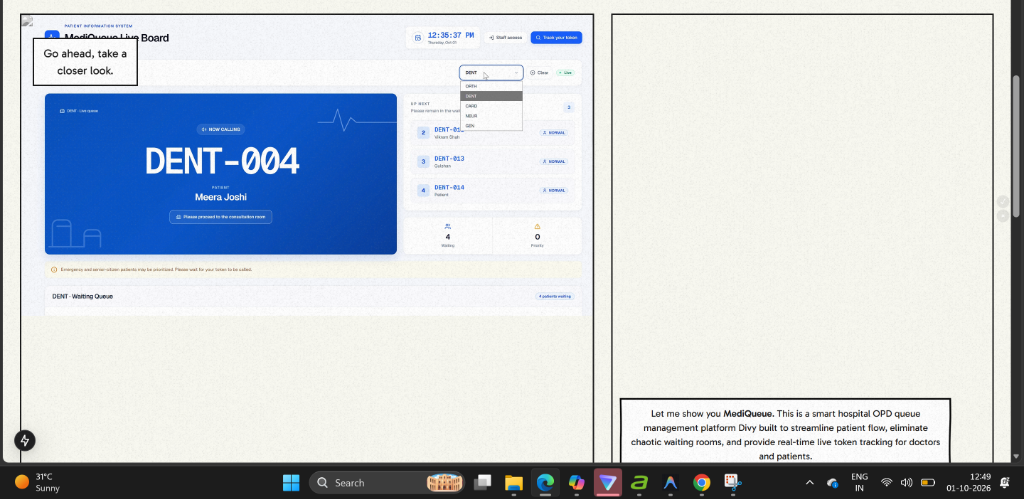
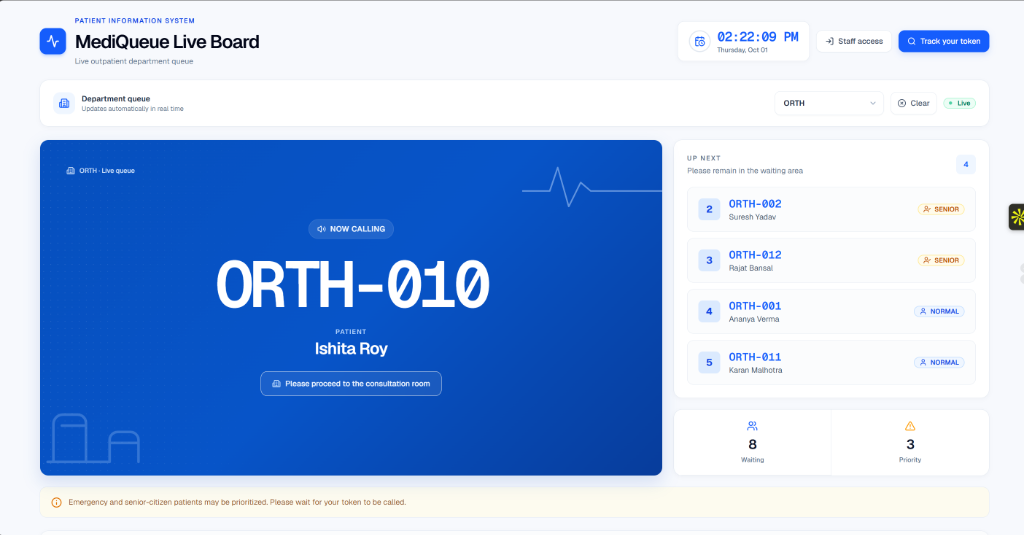
Update MediQueue image and ensure smooth hover video playback without disappearance across all projects

diff --git a/app/components/Healthtech.tsx b/app/components/Healthtech.tsx
@@ -1,6 +1,6 @@
 "use client";
 
-import { useEffect, useRef } from "react";
+import { useEffect, useRef, useState } from "react";
 import Link from "next/link";
 import Image from "next/image";
 import { motion } from "motion/react";
@@ -8,19 +8,24 @@ import { useHoverStore } from "../providers/counter-store-provider";
 
 export default function Healthtech() {
   const videoRef = useRef<HTMLVideoElement>(null);
+  const [isPlaying, setIsPlaying] = useState(false);
   const isHovered = useHoverStore((state) => state.isHovered);
   const setIsHovered = useHoverStore((state) => state.setIsHovered);
 
   useEffect(() => {
-    if (!videoRef || !videoRef.current) return;
+    const video = videoRef.current;
+    if (!video) return;
 
-    if (videoRef.current) {
-      if (isHovered === "healthtech") {
-        videoRef.current.currentTime = 0;
-        videoRef.current.play();
-      } else {
-        videoRef.current.pause();
+    if (isHovered === "healthtech") {
+      const playPromise = video.play();
+      if (playPromise !== undefined) {
+        playPromise.catch((err) => {
+          console.warn("ThinkForward video play error:", err);
+        });
       }
+    } else {
+      video.pause();
+      setIsPlaying(false);
     }
   }, [isHovered]);
 
@@ -28,14 +33,25 @@ export default function Healthtech() {
     <motion.div className="w-full lg:w-[50%] relative border-2 border-foreground overflow-hidden" onMouseEnter={() => setIsHovered("healthtech")} onMouseLeave={() => setIsHovered("none")}>
       <Link target="_blank" href="https://divyy6976miniproject.netlify.app/">
         <Image
-          className={`w-full select-none relative z-20 transition-all duration-300 ${isHovered === "healthtech" ? "opacity-0 saturate-100" : "opacity-100 saturate-0"}`}
+          className={`w-full select-none relative z-20 transition-all duration-300 ${
+            isHovered === "healthtech" && isPlaying ? "opacity-0" : "opacity-100"
+          } ${isHovered === "healthtech" ? "saturate-100" : "saturate-0"}`}
           src="/images/thinkforward.png"
           width={1000}
           height={1000}
-         
           alt="Think Forward - A blog exploring future tech, innovation, and big ideas."
         />
-        <video ref={videoRef} className="absolute inset-0 z-10" src="/videos/thinkforward.mp4" autoPlay loop muted preload="none" aria-label="A video of showcasing OPods" />
+        <video
+          ref={videoRef}
+          className="absolute inset-0 z-10 w-full h-full object-cover select-none"
+          src="/videos/thinkforward.mp4"
+          loop
+          muted
+          playsInline
+          preload="auto"
+          onPlaying={() => setIsPlaying(true)}
+          aria-label="A video showcasing ThinkForward"
+        />
         <div className="flex justify-end items-end absolute inset-0 z-30">
           <div className="w-fit h-fit sm:mb-12 m-1 sm:m-4 p-1 sm:p-2 relative bg-white border-2 border-foreground cursor-pointer">
             <p className="w-[7rem] sm:w-[9rem] text-xs sm:text-base text-center">

diff --git a/app/components/CipelaContainer.tsx b/app/components/CipelaContainer.tsx
@@ -1,6 +1,6 @@
 "use client";
 
-import { useEffect, useRef } from "react";
+import { useEffect, useRef, useState } from "react";
 import Link from "next/link";
 import Image from "next/image";
 import { motion } from "motion/react";
@@ -8,19 +8,24 @@ import { useHoverStore } from "../providers/counter-store-provider";
 
 export default function CipelaContainer() {
   const videoRef = useRef<HTMLVideoElement>(null);
+  const [isPlaying, setIsPlaying] = useState(false);
   const isHovered = useHoverStore((state) => state.isHovered);
   const setIsHovered = useHoverStore((state) => state.setIsHovered);
 
   useEffect(() => {
-    if (!videoRef || !videoRef.current) return;
+    const video = videoRef.current;
+    if (!video) return;
 
-    if (videoRef.current) {
-      if (isHovered === "cipela") {
-        videoRef.current.currentTime = 0;
-        videoRef.current.play();
-      } else {
-        videoRef.current.pause();
+    if (isHovered === "cipela") {
+      const playPromise = video.play();
+      if (playPromise !== undefined) {
+        playPromise.catch((err) => {
+          console.warn("LaunchSignal video play error:", err);
+        });
       }
+    } else {
+      video.pause();
+      setIsPlaying(false);
     }
   }, [isHovered]);
 
@@ -28,13 +33,25 @@ export default function CipelaContainer() {
     <motion.div className="w-full lg:w-[50%] relative border-2 border-foreground overflow-hidden" onMouseEnter={() => setIsHovered("cipela")} onMouseLeave={() => setIsHovered("none")}>
       <Link target="_blank" href="https://www.launch-signal.tech/">
         <Image
-          className={`w-full select-none relative z-20 transition-all duration-300 ${isHovered === "cipela" ? "opacity-0 saturate-100" : "opacity-100 saturate-0"}`}
+          className={`w-full select-none relative z-20 transition-all duration-300 ${
+            isHovered === "cipela" && isPlaying ? "opacity-0" : "opacity-100"
+          } ${isHovered === "cipela" ? "saturate-100" : "saturate-0"}`}
           src="/images/launchsignal.png"
           width={1000}
           height={1000}
           alt="LaunchSignal - Startup Discovery & Feedback Platform"
         />
-        <video ref={videoRef} className="absolute inset-0 z-10" src="/videos/launchsignal.mp4" autoPlay loop muted preload="none" aria-label="A video showcasing LaunchSignal" />
+        <video
+          ref={videoRef}
+          className="absolute inset-0 z-10 w-full h-full object-cover select-none"
+          src="/videos/launchsignal.mp4"
+          loop
+          muted
+          playsInline
+          preload="auto"
+          onPlaying={() => setIsPlaying(true)}
+          aria-label="A video showcasing LaunchSignal"
+        />
         <div className="absolute z-30 flex inset-0">
           <div className="w-fit h-fit mt-auto sm:mt-16 m-1 sm:m-4 p-1 sm:p-2 relative bg-white border-2 border-foreground cursor-pointer">
             <p className="w-[8rem] text-xs sm:text-base text-center">

diff --git a/app/components/OPodsContainer.tsx b/app/components/OPodsContainer.tsx
@@ -1,6 +1,6 @@
 "use client";
 
-import { useEffect, useRef } from "react";
+import { useEffect, useRef, useState } from "react";
 import Link from "next/link";
 import Image from "next/image";
 import { motion } from "motion/react";
@@ -8,19 +8,24 @@ import { useHoverStore } from "../providers/counter-store-provider";
 
 export default function OPodsContainer() {
   const videoRef = useRef<HTMLVideoElement>(null);
+  const [isPlaying, setIsPlaying] = useState(false);
   const isHovered = useHoverStore((state) => state.isHovered);
   const setIsHovered = useHoverStore((state) => state.setIsHovered);
 
   useEffect(() => {
-    if (!videoRef || !videoRef.current) return;
+    const video = videoRef.current;
+    if (!video) return;
 
-    if (videoRef.current) {
-      if (isHovered === "opods") {
-        videoRef.current.currentTime = 0;
-        videoRef.current.play();
-      } else {
-        videoRef.current.pause();
+    if (isHovered === "opods") {
+      const playPromise = video.play();
+      if (playPromise !== undefined) {
+        playPromise.catch((err) => {
+          console.warn("InterviewPrep AI video play error:", err);
+        });
       }
+    } else {
+      video.pause();
+      setIsPlaying(false);
     }
   }, [isHovered]);
 
@@ -29,8 +34,8 @@ export default function OPodsContainer() {
       <Link target="_blank" href="https://inteview-prep-ai.vercel.app/" className="block relative w-full h-full">
         <Image
           className={`w-full select-none relative z-20 transition-all duration-300 ${
-            isHovered === "opods" ? "opacity-0 saturate-100" : "opacity-100 saturate-0"
-          }`}
+            isHovered === "opods" && isPlaying ? "opacity-0" : "opacity-100"
+          } ${isHovered === "opods" ? "saturate-100" : "saturate-0"}`}
           src="/images/interview-prepai.png"
           width={1280}
           height={720}
@@ -40,11 +45,11 @@ export default function OPodsContainer() {
           ref={videoRef}
           className="absolute inset-0 z-10 w-full h-full object-cover select-none"
           src="/videos/interview-prepai.mp4"
-          autoPlay
           loop
           muted
           playsInline
           preload="auto"
+          onPlaying={() => setIsPlaying(true)}
           aria-label="A video showcasing InterviewPrep AI"
         />
         <div className="h-full flex flex-row-reverse justify-between absolute inset-0 z-30 pointer-events-none">

diff --git a/app/components/VetSyncContainer.tsx b/app/components/VetSyncContainer.tsx
@@ -1,6 +1,6 @@
 "use client";
 
-import { useEffect, useRef } from "react";
+import { useEffect, useRef, useState } from "react";
 import Link from "next/link";
 import Image from "next/image";
 import { motion } from "motion/react";
@@ -8,19 +8,24 @@ import { useHoverStore } from "../providers/counter-store-provider";
 
 export default function VetSyncContainer() {
   const videoRef = useRef<HTMLVideoElement>(null);
+  const [isPlaying, setIsPlaying] = useState(false);
   const isHovered = useHoverStore((state) => state.isHovered);
   const setIsHovered = useHoverStore((state) => state.setIsHovered);
 
   useEffect(() => {
-    if (!videoRef || !videoRef.current) return;
+    const video = videoRef.current;
+    if (!video) return;
 
-    if (videoRef.current) {
-      if (isHovered === "vetsync") {
-        videoRef.current.currentTime = 0;
-        videoRef.current.play();
-      } else {
-        videoRef.current.pause();
+    if (isHovered === "vetsync") {
+      const playPromise = video.play();
+      if (playPromise !== undefined) {
+        playPromise.catch((err) => {
+          console.warn("MediQueue video play error:", err);
+        });
       }
+    } else {
+      video.pause();
+      setIsPlaying(false);
     }
   }, [isHovered]);
 
@@ -29,8 +34,8 @@ export default function VetSyncContainer() {
       <Link target="_blank" href="https://medi-queue-seven-lime.vercel.app/display" className="block relative w-full h-full">
         <Image
           className={`w-full select-none relative z-20 transition-all duration-300 ${
-            isHovered === "vetsync" ? "opacity-0 saturate-100" : "opacity-100 saturate-0"
-          }`}
+            isHovered === "vetsync" && isPlaying ? "opacity-0" : "opacity-100"
+          } ${isHovered === "vetsync" ? "saturate-100" : "saturate-0"}`}
           src="/images/mediqueue.png"
           width={1024}
           height={499}
@@ -40,11 +45,11 @@ export default function VetSyncContainer() {
           ref={videoRef}
           className="absolute inset-0 z-10 w-full h-full object-cover select-none"
           src="/videos/mediqueue.mp4"
-          autoPlay
           loop
           muted
           playsInline
           preload="auto"
+          onPlaying={() => setIsPlaying(true)}
           aria-label="A video showcasing MediQueue"
         />
         <div className="absolute z-30 flex inset-0 pointer-events-none">

diff --git a/app/components/MediSearch.tsx b/app/components/MediSearch.tsx
@@ -1,6 +1,6 @@
 "use client";
 
-import { useEffect, useRef } from "react";
+import { useEffect, useRef, useState } from "react";
 import Link from "next/link";
 import Image from "next/image";
 import { motion } from "motion/react";
@@ -8,19 +8,24 @@ import { useHoverStore } from "../providers/counter-store-provider";
 
 export default function MediSearch() {
   const videoRef = useRef<HTMLVideoElement>(null);
+  const [isPlaying, setIsPlaying] = useState(false);
   const isHovered = useHoverStore((state) => state.isHovered);
   const setIsHovered = useHoverStore((state) => state.setIsHovered);
 
   useEffect(() => {
-    if (!videoRef || !videoRef.current) return;
+    const video = videoRef.current;
+    if (!video) return;
 
-    if (videoRef.current) {
-      if (isHovered === "medisearch") {
-        videoRef.current.currentTime = 0;
-        videoRef.current.play();
-      } else {
-        videoRef.current.pause();
+    if (isHovered === "medisearch") {
+      const playPromise = video.play();
+      if (playPromise !== undefined) {
+        playPromise.catch((err) => {
+          console.warn("TypeBattle video play error:", err);
+        });
       }
+    } else {
+      video.pause();
+      setIsPlaying(false);
     }
   }, [isHovered]);
 
@@ -29,8 +34,8 @@ export default function MediSearch() {
       <Link target="_blank" href="https://typebattle-wheat.vercel.app/practice" className="block relative w-full h-full">
         <Image
           className={`w-full select-none relative z-20 transition-all duration-300 ${
-            isHovered === "medisearch" ? "opacity-0 saturate-100" : "opacity-100 saturate-0"
-          }`}
+            isHovered === "medisearch" && isPlaying ? "opacity-0" : "opacity-100"
+          } ${isHovered === "medisearch" ? "saturate-100" : "saturate-0"}`}
           src="/images/typebattle.png"
           width={1280}
           height={720}
@@ -40,11 +45,11 @@ export default function MediSearch() {
           ref={videoRef}
           className="absolute inset-0 z-10 w-full h-full object-cover select-none"
           src="/videos/typebattle.mp4"
-          autoPlay
           loop
           muted
           playsInline
           preload="auto"
+          onPlaying={() => setIsPlaying(true)}
           aria-label="A video showcasing TypeBattle"
         />
         <div className="absolute inset-0 z-30 pointer-events-none">
